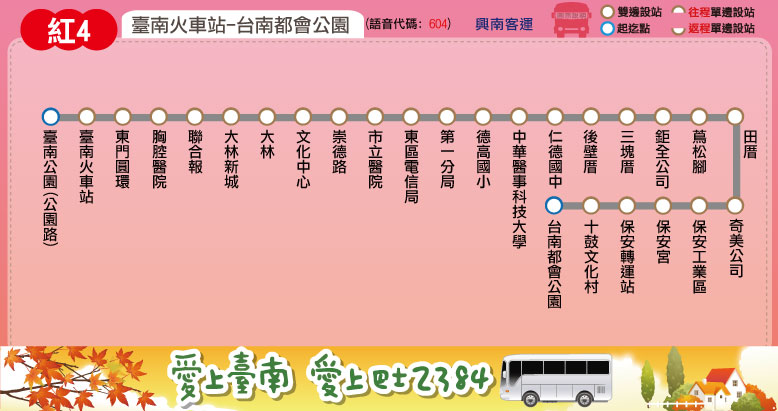
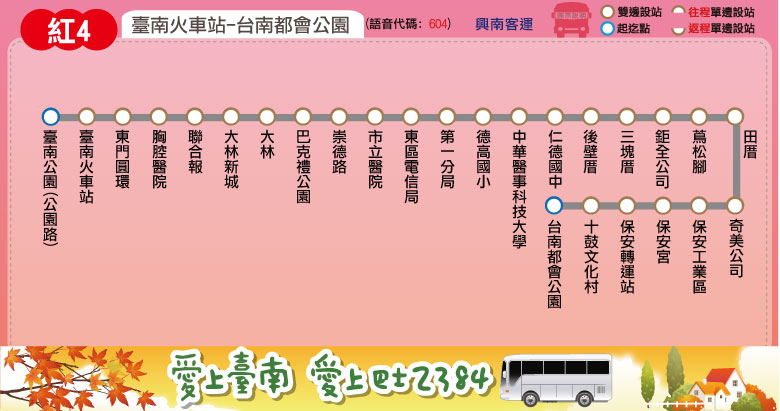
finished the time schedule of red 4

diff --git a/red/red_4.html b/red/red_4.html
@@ -2,7 +2,7 @@
 <html xmlns="http://www.w3.org/1999/xhtml">
 <head>
 <meta http-equiv="Content-Type" content="text/html; charset=utf-8" />
-<title>大台南公車 ─ 紅1 路線資訊</title>
+<title>大台南公車 ─ 紅4 路線資訊</title>
 <meta name="keywords" content="" />
 <meta name="description" content="" />
 <style type="text/css">
@@ -19,7 +19,7 @@ select.get_fare option.option4
 {background-color: #FF9999;}
 </style>
 <script language="javascript" src="../route/msg.js"></script>
-<script language="javascript" src="../route/fare_and_time/red_1.js"></script>
+<script language="javascript" src="../route/fare_and_time/red_4.js"></script>
 <script language="javascript" src="../route/fare_and_time/show_fare_tool.js"></script>
 </head>
 <body>
@@ -47,10 +47,10 @@ select.get_fare option.option4
 	<div id="banner">&nbsp;</div>
 	<div id="route">
 		<div class="title">
-			<h2>大台南公車 ─ 紅1 路線圖</h2>
-			<span class="byline">Tainan Bus Red 1, Route Map</span>
+			<h2>大台南公車 ─ 紅4 路線圖</h2>
+			<span class="byline">Tainan Bus Red 4, Route Map</span>
 		</div>
-		<img src="../route/red/r1.jpg">
+		<img src="../route/red/r4.jpg">
 		<p></p>
 		<!--<iframe src="https://mapsengine.google.com/map/embed?mid=zT0XIOZRtlhg.kumm7mBa3IrA" width="800" height="500"></iframe>-->
 	</div>
@@ -59,13 +59,13 @@ select.get_fare option.option4
 	<a name="info"></a>
 	<div id="routeinfo" class="container">
 		<div class="title">
-			<h2>大台南公車 ─ 紅1　路線資訊</h2>
-			<span class="byline">Tainan Bus red 1, Route Information</span> </div>
+			<h2>大台南公車 ─ 紅4　路線資訊</h2>
+			<span class="byline">Tainan Bus Red 4, Route Information</span> </div>
 		<div class="content">
 			<table border="0">
 				<tr>
 					<td>起訖點</td>
-					<td>臺南公園(公園路) ─ 太子廟 ─ 關廟</td>
+					<td>臺南公園(公園路) ─ 臺南都會公園</td>
 				</tr>
 				<tr>
 					<td>營運公司</td>
@@ -73,7 +73,7 @@ select.get_fare option.option4
 				</tr>
 				<tr>
 					<td>首／末班車發車時刻</td>
-					<td>往 關　　廟：06:25／21:45<br />往 臺南公園：06:15／17:00</td>
+					<td>往 臺南都會公園：07:25／18:25<br />往 　臺南公園　：08:35／19:35</td>
 				</tr>
 				<tr>
 					<td>班距</td>
@@ -85,7 +85,7 @@ select.get_fare option.option4
 				</tr>
 			</table>
 			<p>　</p>
-			<a href="http://2384.tainan.gov.tw:8080/AGPSRemoteQuery3/ajaxBus.jsp?pathId=1601&locale=zh_TW" class="button">公車動態資訊</a> </div>
+			<a href="http://2384.tainan.gov.tw:8080/AGPSRemoteQuery3/ajaxBus.jsp?pathId=1604&locale=zh_TW" class="button">公車動態資訊</a> </div>
 	</div>
 </div>
 <div id="wrapper3">
@@ -96,7 +96,7 @@ select.get_fare option.option4
 			<span class="byline">Ticket Fare</span> </div>
 		<div class="content">
 			<script language="javascript">
-				create_select_menu(red_1_interval_stop, 4, 'red_1');
+				create_select_menu(red_4_interval_stop, 4, 'red_4');
 			</script>
 			<br/>
 			<table id="showfareInfo">
@@ -116,7 +116,7 @@ select.get_fare option.option4
 			</table>
 			<p>　</p>
 			<script language="javascript">
-				print_fare_table(red_1_interval_name, red_1_fare, '#FFCECD');
+				print_fare_table(red_4_interval_name, red_4_fare, '#FFCECD');
 				document.write('<p>　</p>');
 				document.write(MeteredMSG + PromotionMSG);
 			</script>
@@ -131,11 +131,11 @@ select.get_fare option.option4
 		<span class="byline">Bus schedule</span> </div>
 	<div class="content">
 		<script language="javascript">
-			document.write('<h2><font color="red">臺南公園(公園路)-&gt;關廟</font></h2>');
-			create_time_schedule(red_1_main_stop_name, red_1_main_stop_time_consume, red_1_important_stop, red_1_time_go, false);
+			document.write('<h2><font color="red">臺南公園(公園路)-&gt;臺南都會公園</font></h2>');
+			create_time_schedule(red_4_main_stop_name, red_4_main_stop_time_consume, red_4_important_stop, red_4_time_go, false);
 			document.write('<p>　</p>');
-			document.write('<h2><font color="red">關廟-&gt;臺南公園(公園路)</font></h2>');
-			create_time_schedule(red_1_main_stop_name, red_1_main_stop_time_consume, red_1_important_stop, red_1_time_return, true);
+			document.write('<h2><font color="red">臺南都會公園-&gt;臺南公園(公園路)</font></h2>');
+			create_time_schedule(red_4_main_stop_name, red_4_main_stop_time_consume, red_4_important_stop, red_4_time_return, true);
 			document.write(TimeScheduleMSG);
 		</script>
 	</div>
@@ -144,8 +144,8 @@ select.get_fare option.option4
 	<a name="transfer"></a>
 	<div id="transfer" class="container">
 		<div class="title">
-			<h2>大台南公車－紅1 主要轉乘點資訊</h2>
-			<span class="byline">Tainan bus red 1, Transfer information</span>
+			<h2>大台南公車－紅4 主要轉乘點資訊</h2>
+			<span class="byline">Tainan bus Red 4, Transfer information</span>
 		</div>
 		<div class="content">
 			<table>

diff --git a/route/fare_and_time/red_4.js b/route/fare_and_time/red_4.js
@@ -1,0 +1,26 @@
+red_4_interval_name = ["臺南","文化","後壁厝","保安","保安<br />轉運站","臺南<br />都會公園"];
+red_4_interval_stop = [
+["臺南公園(公園路)","臺南火車站","東門圓環","胸腔病院","聯合報","大林新城","大林"], // 臺南
+["巴克禮公園","崇德路","市立醫院","東區電信局","第一分局","德高國小"], // 文化
+["中華醫事科技大學","仁德國中","後壁厝","三塊厝","鉅全公司","蔦松腳","田厝"], // 後壁厝
+["奇美公司","保安工業區","保安宮"], // 保安
+["保安轉運站","十鼓文化村"], // 保安轉運站
+["臺南都會公園"] // 臺南都會公園
+];
+red_4_interval_time_consume = [10, 25, 45, 55, 60, 65, 70];
+red_4_fare = [
+[26],
+[26,26],
+[37,26,26],
+[50,34,26,26],
+[53,37,26,26,26],
+[59,43,26,26,26,26]
+];
+// format = [time at the start stop] or
+// [time, other] or
+// [time, start_stop, end_stop, other]
+red_4_main_stop_name = ["臺南公園<br />(公園路)","臺南<br />火車站","巴克禮<br />公園","中華醫事<br />科技大學","保安<br />轉運站","臺南<br />都會公園"];
+red_4_main_stop_time_consume = [0, 5, 17, 30, 45, 50];
+red_4_important_stop = [0, 1, 4, 5]; // 臺南公園<, 臺南火車站, 保安>轉運站, 臺南都會公園
+red_4_time_go = [["7:25"],["9:45"],["10:35"],["11:25"],["12:25"],["13:55"],["14:45"],["15:45"],["16:15"],["18:25"]];
+red_4_time_return = [["8:35"],["10:55"],["11:45"],["12:35"],["13:35"],["15:05"],["15:55"],["16:55"],["17:25"],["19:35"]];

diff --git a/red/red_2.html b/red/red_2.html
@@ -65,7 +65,7 @@ select.get_fare option.option4
 			<table border="0">
 				<tr>
 					<td>起訖點</td>
-					<td>臺南火車站 ─ 上崙子 ─ 關廟</td>
+					<td>臺南公園(公園路) ─ 上崙子 ─ 關廟</td>
 				</tr>
 				<tr>
 					<td>營運公司</td>
@@ -73,7 +73,7 @@ select.get_fare option.option4
 				</tr>
 				<tr>
 					<td>首／末班車發車時刻</td>
-					<td>往 　關　廟　：07:15／21:25<br />往 臺南火車站：06:05／18:45</td>
+					<td>往 關　　廟：07:15／21:25<br />往 臺南公園：06:05／18:45</td>
 				</tr>
 				<tr>
 					<td>班距</td>
@@ -131,10 +131,10 @@ select.get_fare option.option4
 		<span class="byline">Bus schedule</span> </div>
 	<div class="content">
 		<script language="javascript">
-			document.write('<h2><font color="red">臺南火車站-&gt;關廟</font></h2>');
+			document.write('<h2><font color="red">臺南公園(公園路)-&gt;關廟</font></h2>');
 			create_time_schedule(red_2_main_stop_name, red_2_main_stop_time_consume, red_2_important_stop, red_2_time_go, false);
 			document.write('<p>　</p>');
-			document.write('<h2><font color="red">關廟-&gt;臺南火車站</font></h2>');
+			document.write('<h2><font color="red">關廟-&gt;臺南公園(公園路)</font></h2>');
 			create_time_schedule(red_2_main_stop_name, red_2_main_stop_time_consume, red_2_important_stop, red_2_time_return, true);
 			document.write(TimeScheduleMSG);
 		</script>

diff --git a/red/index.html b/red/index.html
@@ -32,15 +32,15 @@ a { color:#e22500; }
 	</tr>
 	<tr>
 		<td id="branch"><a href="red_1.html">紅1</a></td>
-		<td>臺南火車站 ─ 太子廟 ─ 關廟</td>
+		<td>臺南公園 ─ 太子廟 ─ 關廟</td>
 	</tr>
 	<tr>
 		<td id="branch"><a href="red_2.html">紅2</a></td>
-		<td>臺南火車站 ─ 仁德 ─ 上崙子 ─ 關廟</td>
+		<td>臺南公園 ─ 仁德 ─ 上崙子 ─ 關廟</td>
 	</tr>
 	<tr>
 		<td id="branch"><a href="red_3.html">紅3</a></td>
-		<td>臺南火車站 ─ 高鐵台南 ─ 關廟</td>
+		<td>臺南公園 ─ 高鐵台南 ─ 關廟</td>
 	</tr>
 	<tr>
 		<td id="branch"><a href="red_4.html">紅4</a></td>

diff --git a/red/red_3.html b/red/red_3.html
@@ -65,7 +65,7 @@ select.get_fare option.option4
 			<table border="0">
 				<tr>
 					<td>起訖點</td>
-					<td>臺南火車站 ─ 高鐵台南 ─ 關廟</td>
+					<td>臺南公園(公園路) ─ 高鐵台南 ─ 關廟</td>
 				</tr>
 				<tr>
 					<td>營運公司</td>
@@ -73,7 +73,7 @@ select.get_fare option.option4
 				</tr>
 				<tr>
 					<td>首／末班車發車時刻</td>
-					<td>往 　關　廟　：06:05／19:05<br />往 臺南火車站：05:50／19:40</td>
+					<td>往 關　　廟：06:05／19:05<br />往 臺南公園：05:50／19:40</td>
 				</tr>
 				<tr>
 					<td>班距</td>
